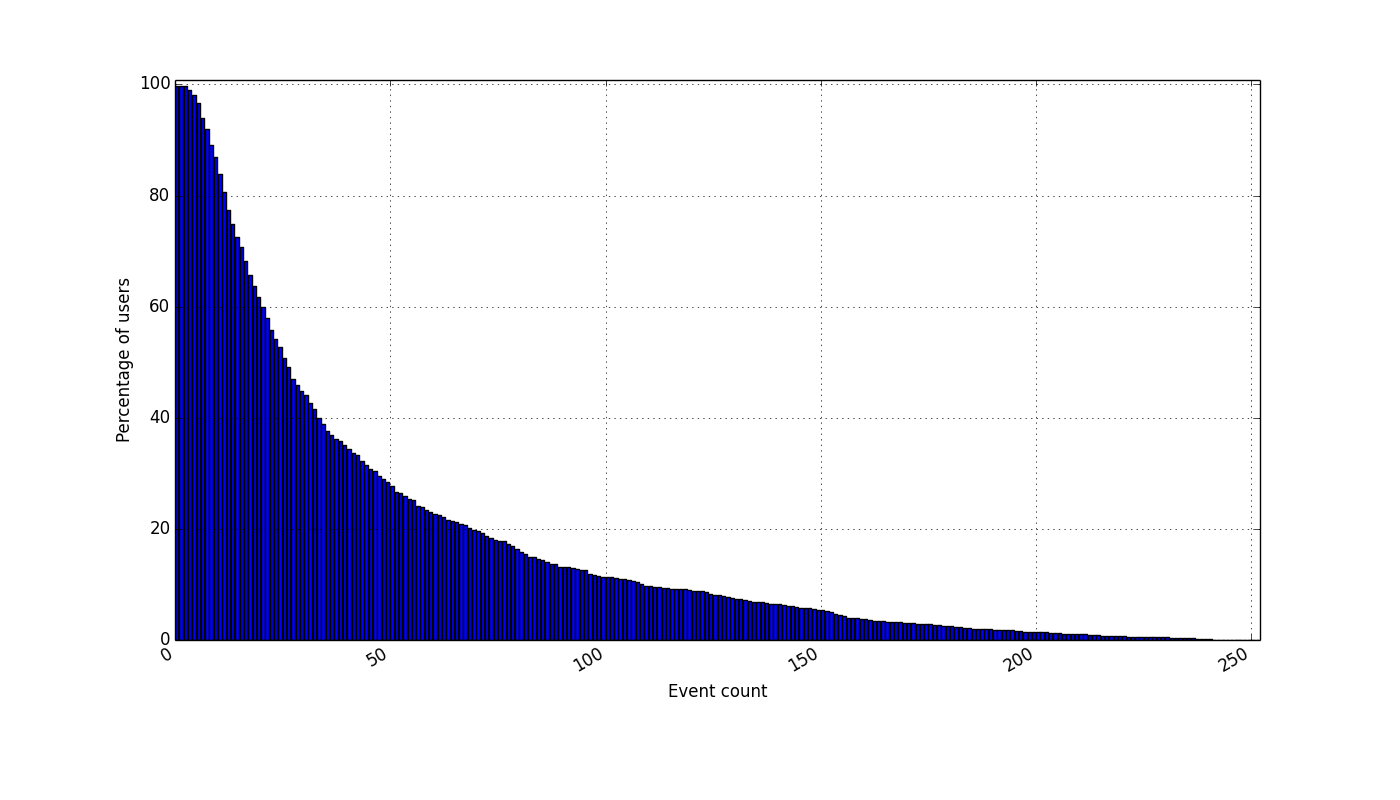
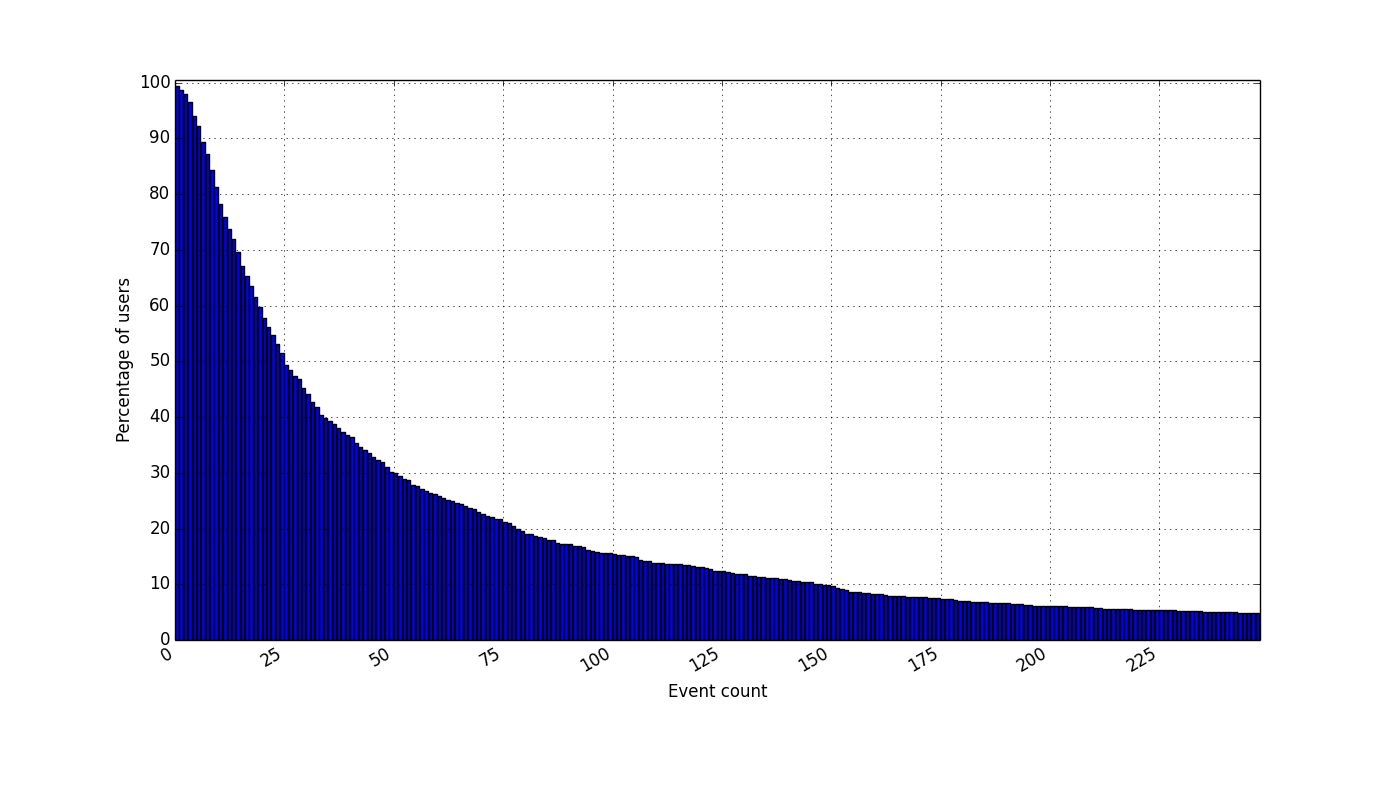
updated table in slide

Changed region(s): [[0.0921, 0.0938, 0.9214, 0.8438]]

diff --git a/presentation/telenor-workshop.tex b/presentation/telenor-workshop.tex
@@ -126,6 +126,9 @@
                 Fahsiolista  & \xmark & \cmark & \xmark & \cmark & \cmark & \xmark \\
                 ShopStyle  & \xmark & \xmark & \cmark & \cmark & \xmark & \xmark \\
                 MyHabit  & \cmark & \xmark & \cmark & \xmark & \xmark & \xmark \\
+                Asos  & \cmark & \cmark & \cmark & \cmark & \cmark & \xmark \\
+                Mallzee  & \xmark & \xmark & \xmark & \cmark & \cmark & \cmark \\
+                Kwoller  & \xmark & \xmark & \xmark & \cmark & \xmark & \cmark \\
                 \bottomrule
             \end{tabular}
           }
@@ -148,26 +151,27 @@
       \begin{table}[H]\centering\resizebox*{!}{0.7\textheight}{\begin{tabular}{l l}\toprule
             Attribute       & Count   \\
             \midrule
-            Total number of product events &    40773 \\
-            Unique users ids    &    2021 \\
-            Unique item ids     &    6092 \\
-            Unique storefronts  &    147 \\
-            Unique retailer brands  &    24 \\
+            Total number of product events  &    35324 \\
+            Unique users ids    &    1532 \\
+            Unique item ids     &    5688 \\
+            Unique storefronts  &    144 \\
+            Unique retailer brands  &    22 \\
             \hline
-            Item clicks     &    25491 \\
-            Item wants   &    13262 \\
-            Item purchases   &    2020 \\
+            Item clicks     &    21400 \\
+            Item wants  &    12436 \\
+            Item purchases  &    1488 \\
             \hline
             First event & Mon, 07 Oct 2013 10:59:57 GMT \\
             Last event & Mon, 19 May 2014 22:51:19 GMT \\
             Lifetime of data & 224 days \\
             \hline
-            Average item click count per user   &    12.6130 \\
-            Average item want count per user     &    6.5620 \\
-            Average item purchase count per user     &    0.9995 \\
+            Average item click count per user   &    13.968668407310705 \\
+            Average item want count per user    &    8.117493472584856 \\
+            Average item purchase count per user    &    0.9712793733681462 \\
             \hline
-            Average item interaction count per user     &    20.1746 \\
-            Average user interaction count per item     &    6.6928 \\
+            Average user interaction count per item     &    6.210267229254571 \\
+            Average item interaction count per user     &    23.057441253263708 \\
+            Median item interaction count per user  &    7.0 \\
     \bottomrule\end{tabular}}\end{table}
   \end{frame}
 

diff --git a/src/masterChapters/03-stateOfTheArt/fashion-recommendation.tex b/src/masterChapters/03-stateOfTheArt/fashion-recommendation.tex
@@ -445,29 +445,6 @@ of the e-commerce fashion mobile application Mallzee~\cite{mallzee}
 %     \label{table:ecommerceMallzees}
 % \end{table}
 
-% \begin{table}[H]
-%     \centering
-%     \begin{tabularx}{\linewidth}{>{\parskip1ex}X@{\kern4\tabcolsep}>{\parskip1ex}X}
-%         \toprule
-%         \hfil\bfseries Strengths
-%         &
-%         \hfil\bfseries Weaknesses
-%         \\\cmidrule(r{3\tabcolsep}){1-1}\cmidrule(l{-\tabcolsep}){2-2}
-%         %Strengths
-%         % Hot-or-Not approach \par
-%         % Ability to add item to a "want list" \par
-%         Presented with what friends like \pars
-%         Follow other users \par
-%         Personalized recommendations \par
-%         &
-%         %Weaknesses
-%         No most popular list \par
-%         Redirected on purchase \par
-%         \\\bottomrule
-%     \end{tabularx}
-%     \caption{Asos: Strengths and weaknesses}
-%     \label{table:ecommerceAsos}
-% \end{table}
 
 \begin{table}[H]
     \centering
@@ -489,7 +466,7 @@ of the e-commerce fashion mobile application Mallzee~\cite{mallzee}
         \\\bottomrule
     \end{tabularx}
     \caption{Asos: Strengths and weaknesses}
-    \label{table:ecommerceAsos}
+    \label{table:ecommerceMallzees}
 \end{table}
 
 \subsubsection{Lyst} % (fold)
